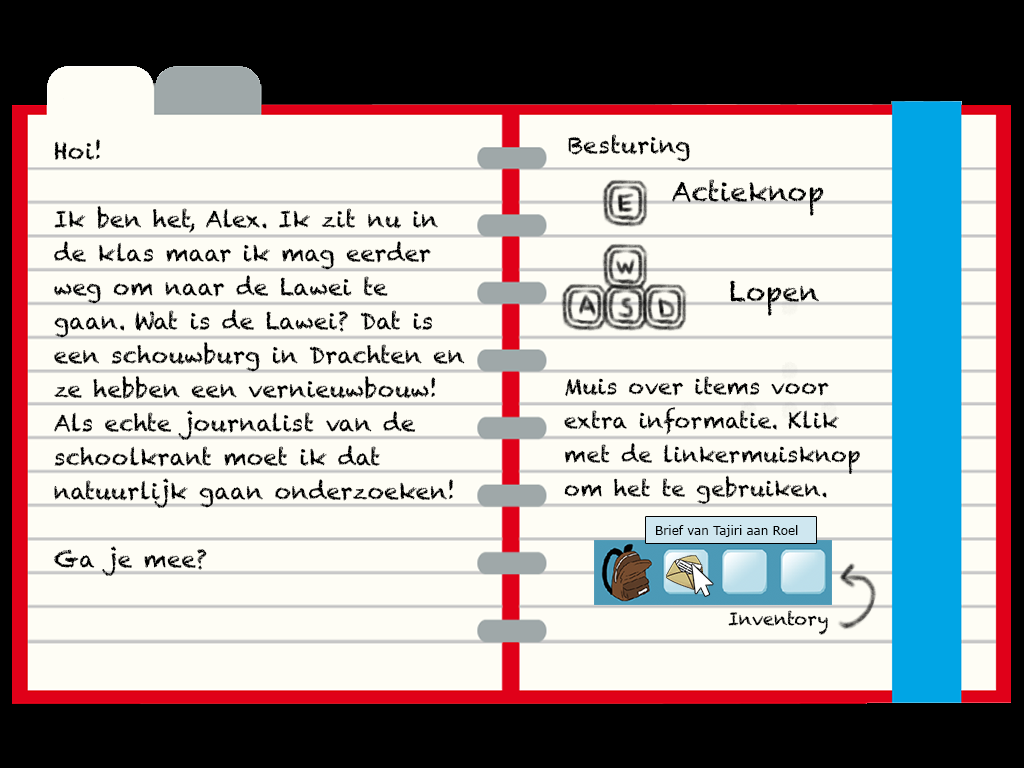
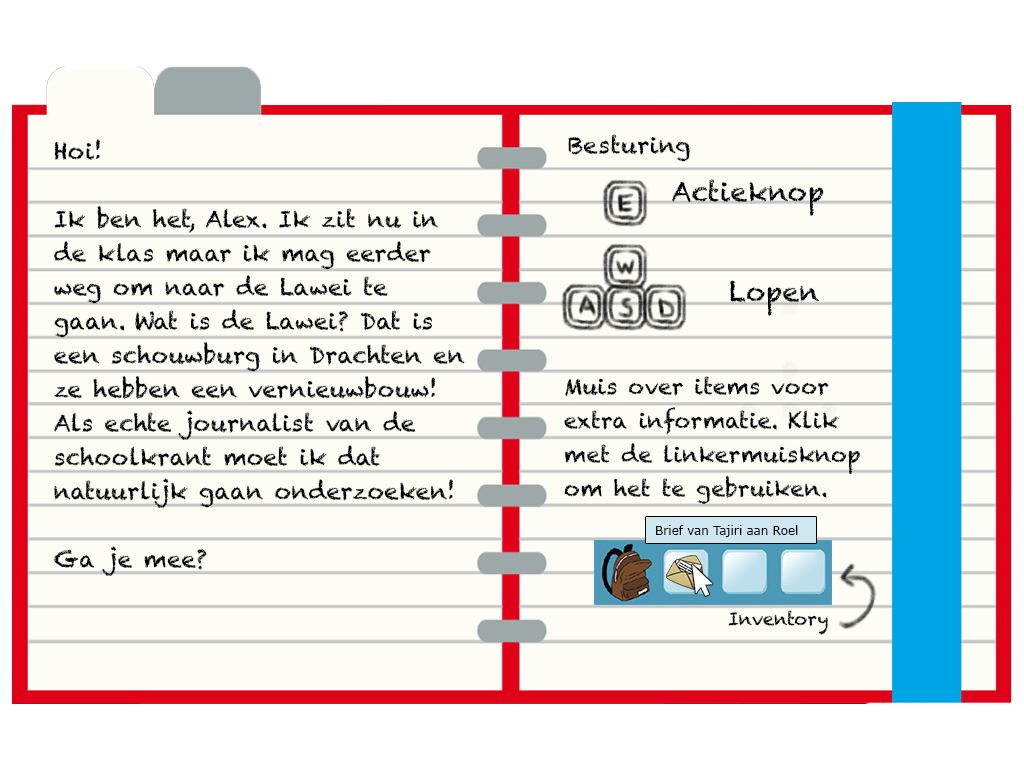
fixed introductie screen

Changed region(s): [[0.0, 0.0, 1.0, 1.0]]

diff --git a/js/game.js b/js/game.js
@@ -56,9 +56,9 @@ var game = {
 		game.speech = new game.SpeechScreen();
 		me.state.set(me.state.SPEECH, game.speech);
 		
-		var INSTRUCTIONS = me.state.USER + 2;
+		/*var INSTRUCTIONS = me.state.USER + 2;
 		game.instructions = new game.InstructionsScreen();
-		me.state.set(me.state.INSTRUCTIONS, game.instructions);
+		me.state.set(me.state.INSTRUCTIONS, game.instructions);*/
 		
 		game.end = new game.EndScreen();
 		me.state.set(me.state.GAME_END, game.end);
@@ -86,6 +86,6 @@ var game = {
 		
 		me.input.bindKey(me.input.KEY.X, "mouse/touch");
 		me.input.bindPointer(me.input.KEY.X);
-		me.state.change(me.state.MENU);
+		me.state.change(me.state.PLAY);
 	}
 };

diff --git a/js/entities/HUD.js b/js/entities/HUD.js
@@ -17,6 +17,8 @@ game.HUD.Container = me.ObjectContainer.extend({
 			this.addButton();
 			this.inventory;
 			this.addInventory();
+			console.log("introductiescherm");
+			me.game.world.addChild(new game.UIImage(0, 0, "introductiescherm"));
 		},
 		
 		addInventory : function() {

diff --git a/js/UI.js b/js/UI.js
@@ -45,7 +45,7 @@ game.UIText = me.Renderable.extend({
 		//the 10's are irrelevant
 		this.parent(new me.Vector2d(x,y), 10, 10);
 		this.font = new me.BitmapFont(font, 32);
-		this.text =  text;
+		this.text = text;
 		this.floating = true;
 	},
 	
